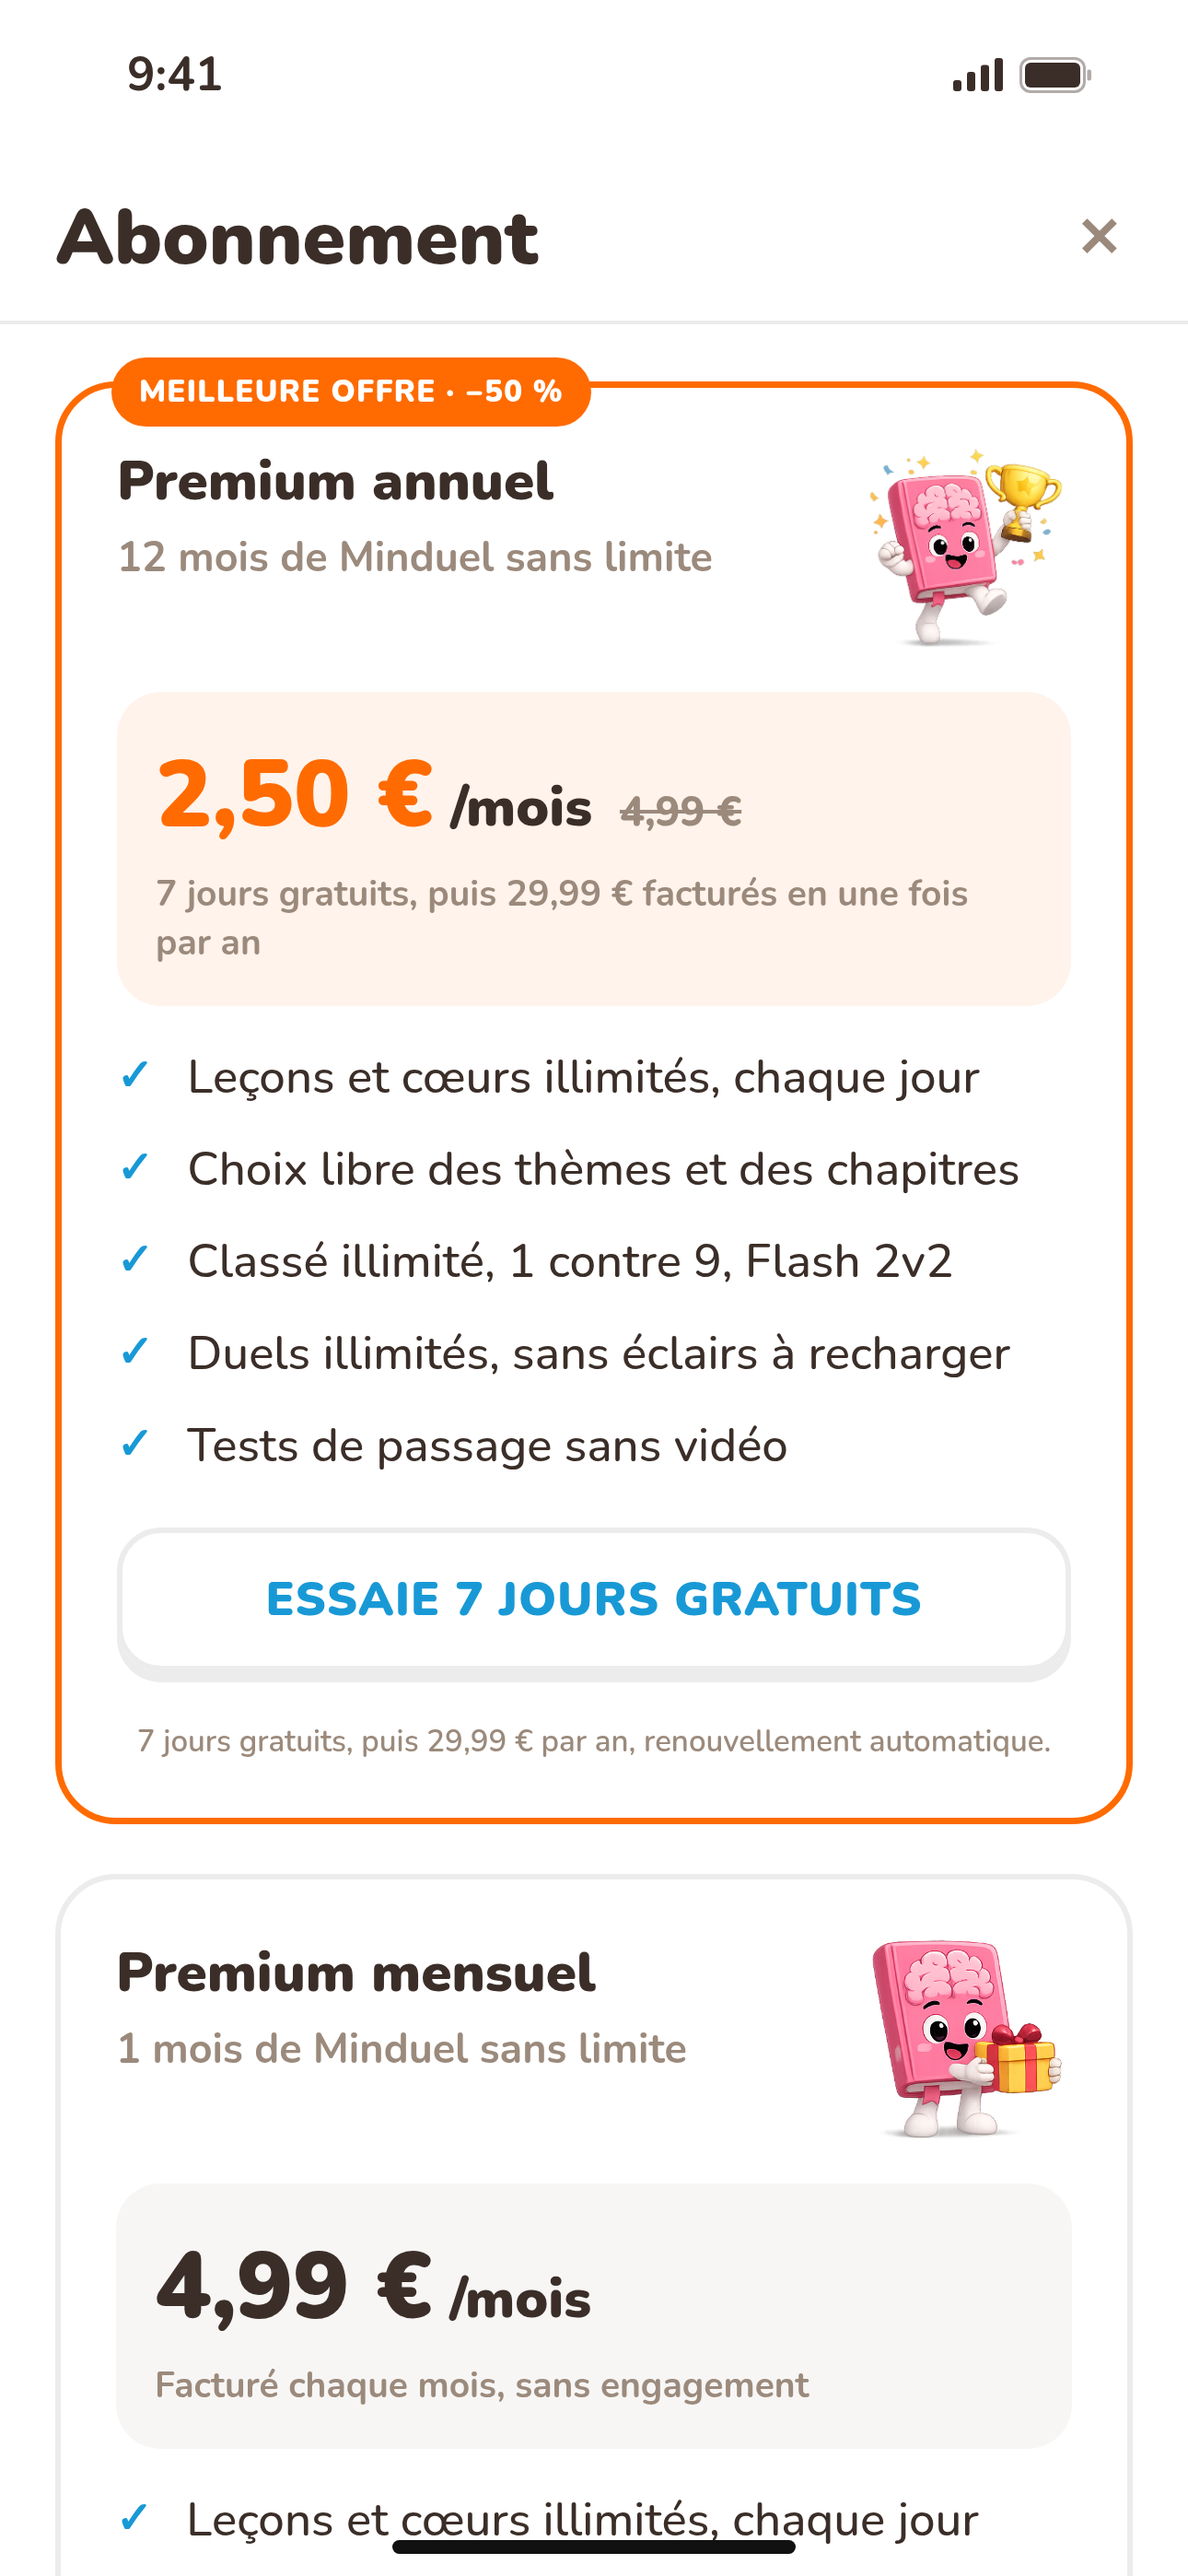
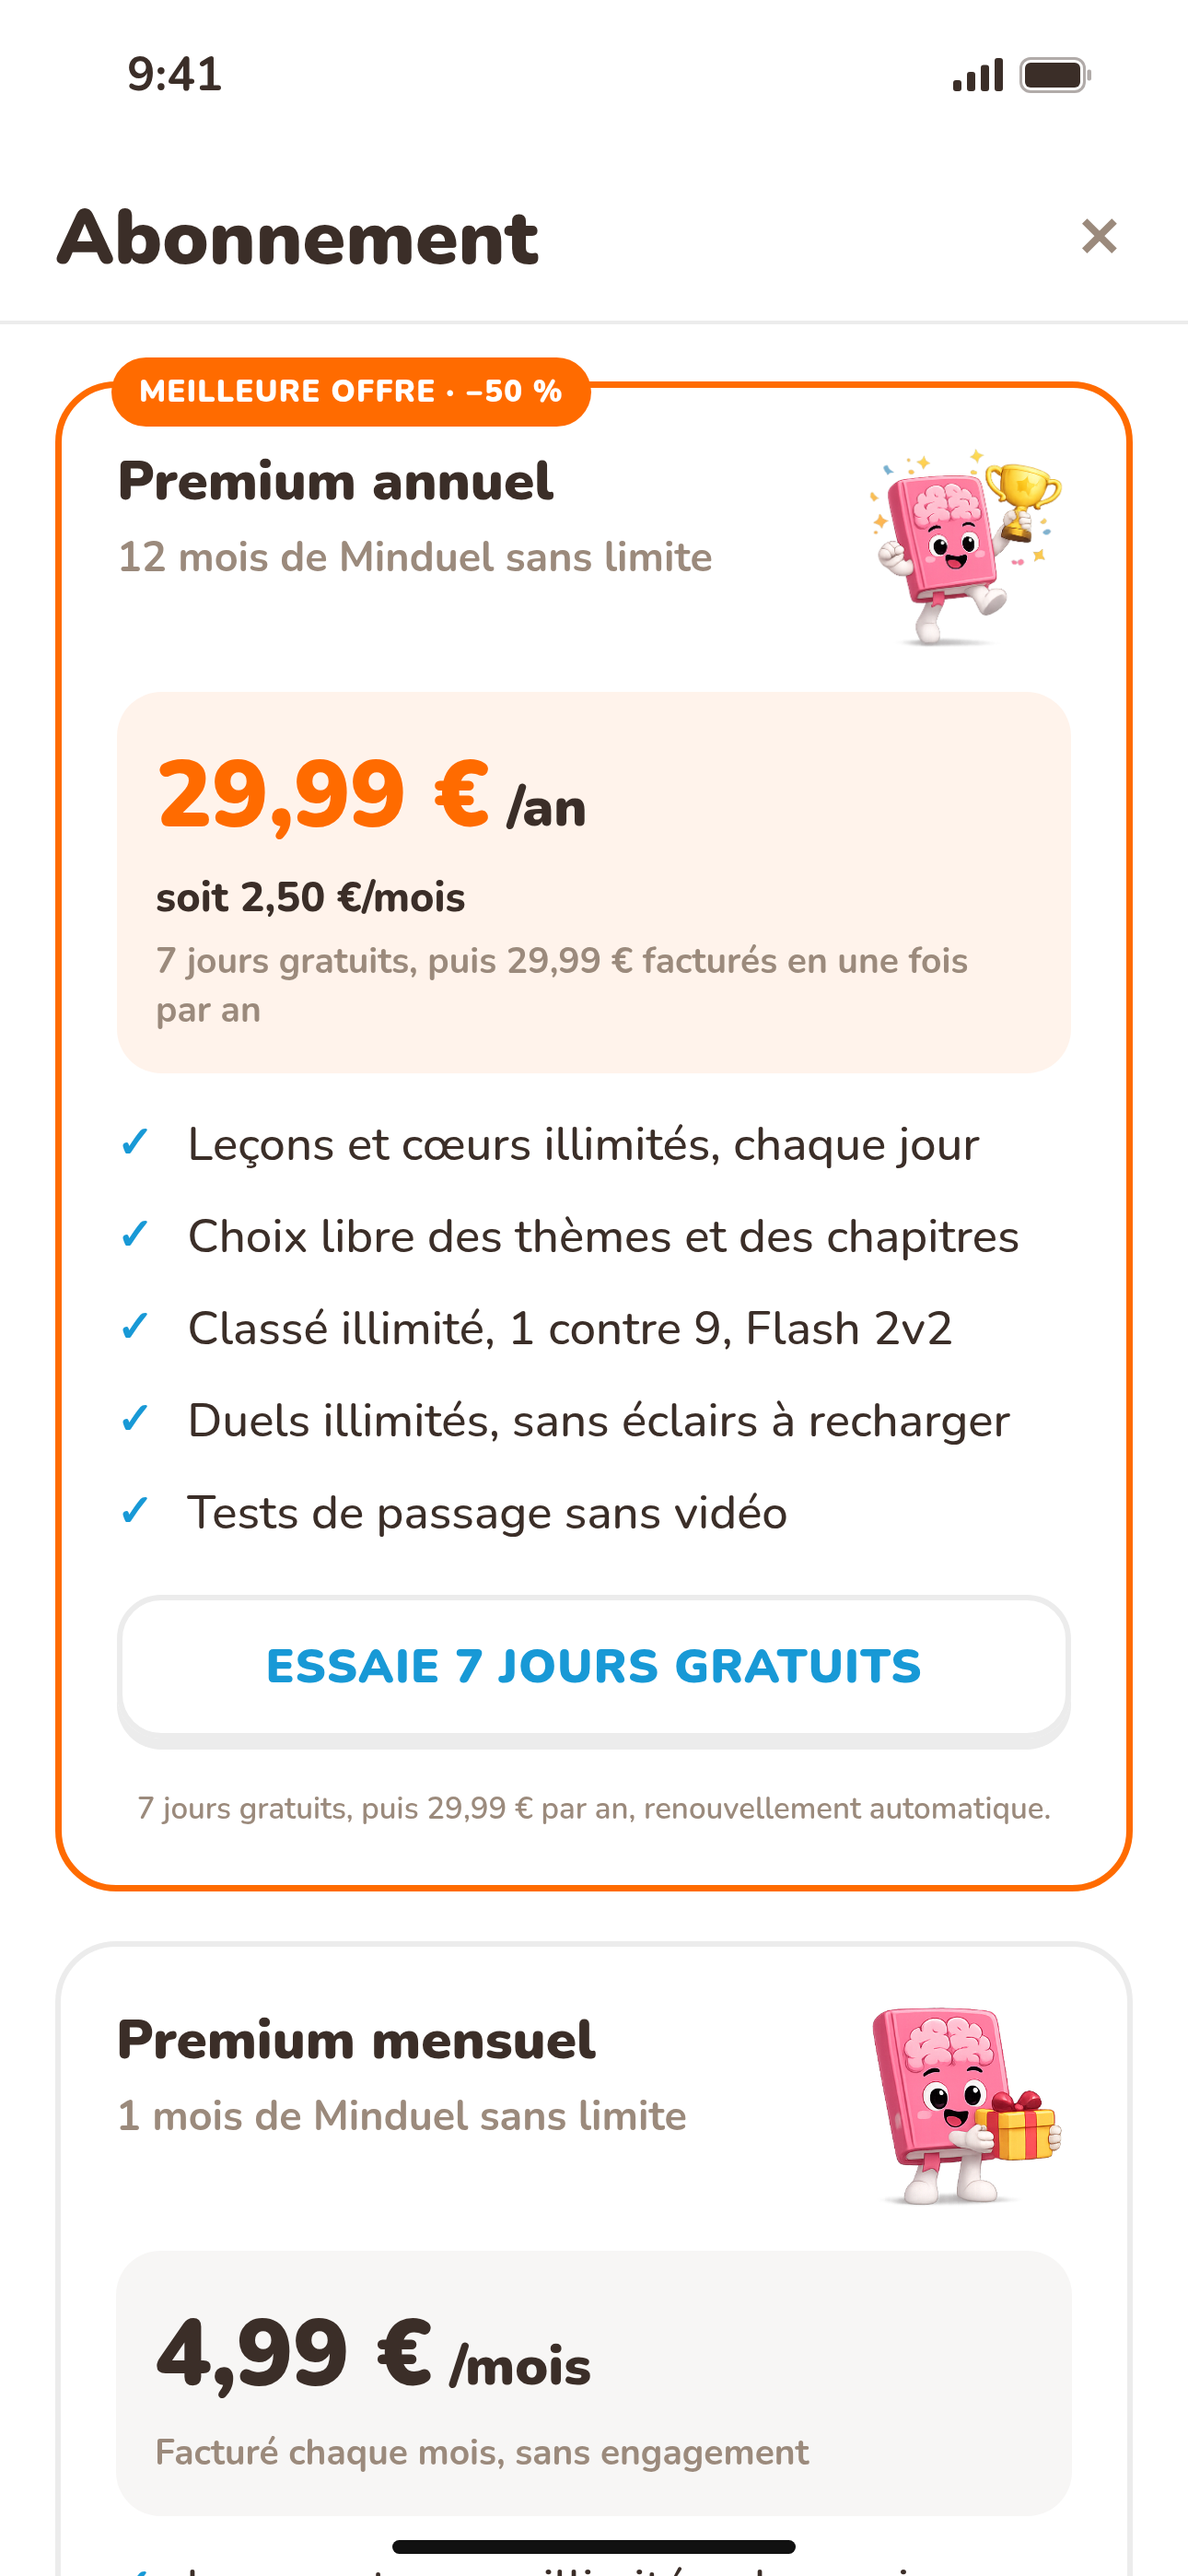
Améliorations de l'interface, visite guidée et mise à jour du paywall

diff --git a/ios/Cortex/Views/Premium/PaywallView.swift b/ios/Cortex/Views/Premium/PaywallView.swift
@@ -188,13 +188,13 @@ struct PaywallView: View {
         let trial = store.freeTrial(for: package)
         let isCurrent = store.isPremium && store.activeProductId == package.storeProduct.productIdentifier
         let price = package.storeProduct.localizedPriceString
-        let perMonth = isAnnual ? (package.storeProduct.localizedPricePerMonth ?? price) : price
+        let perMonthEquivalent = isAnnual ? package.storeProduct.localizedPricePerMonth.map { "soit \($0)/mois" } : nil
         let billing = isAnnual ? "\(price) facturés en une fois par an" : "facturé chaque mois, sans engagement"
         let priceNote: String
         if let trial {
             priceNote = "\(Self.durationText(trial.subscriptionPeriod)) gratuits, puis \(billing)"
         } else {
-            priceNote = isAnnual ? "Soit \(billing)" : "Facturé chaque mois, sans engagement"
+            priceNote = isAnnual ? "\(price) facturés en une fois par an" : "Facturé chaque mois, sans engagement"
         }
         let subtitle = isAnnual ? "12 mois de Minduel sans limite" : "1 mois de Minduel sans limite"
         let title: String
@@ -208,7 +208,7 @@ struct PaywallView: View {
         return PlanCard(
             title: isAnnual ? "Premium annuel" : "Premium mensuel",
             subtitle: subtitle,
-            price: PlanPrice(amount: perMonth, unit: "/mois", note: priceNote, strikethrough: isAnnual ? monthlyPriceText : nil),
+            price: PlanPrice(amount: price, unit: isAnnual ? "/an" : "/mois", note: priceNote, equivalent: perMonthEquivalent),
             perks: Self.premiumPerks,
             image: isAnnual ? "MascotTrophy" : "MascotGift",
             highlight: isAnnual ? Theme.primary : nil,
@@ -229,7 +229,7 @@ struct PaywallView: View {
         PlanCard(
             title: "Gratuit",
             subtitle: "Pour découvrir Minduel à ton rythme",
-            price: PlanPrice(amount: "0 €", unit: "", note: "Pour toujours", strikethrough: nil),
+            price: PlanPrice(amount: "0 €", unit: "", note: "Pour toujours", equivalent: nil),
             perks: Self.freePerks,
             image: "book_mascot_sitting",
             highlight: nil,
@@ -239,12 +239,6 @@ struct PaywallView: View {
             isButtonEnabled: false,
             isBusy: false
         ) {}
-    }
-
-    /// Monthly price, struck through on the annual card to show the saving.
-    private var monthlyPriceText: String? {
-        guard savingsPercent != nil else { return nil }
-        return store.monthlyPackage?.storeProduct.localizedPriceString
     }
 
     private var annualBadgeText: String {
@@ -332,12 +326,13 @@ struct PaywallView: View {
 
 /// One subscription formula, Duolingo-style: title, one line, blue checks,
 /// an illustration on the right and its own outlined button.
-/// Price block of a plan card: the big per-month figure and its small print.
+/// Price block of a plan card: the billed amount in big (App Store rule 3.1.2),
+/// an optional per-month equivalent and the billing small print.
 private struct PlanPrice {
     let amount: String
     let unit: String
     let note: String
-    let strikethrough: String?
+    let equivalent: String?
 }
 
 private struct PlanCard: View {
@@ -440,16 +435,14 @@ private struct PlanCard: View {
                         .font(.system(.title3, design: .rounded, weight: .heavy))
                         .foregroundStyle(Theme.ink)
                 }
-                if let strike = price.strikethrough {
-                    Text(strike)
-                        .font(.system(.subheadline, design: .rounded, weight: .bold))
-                        .foregroundStyle(Theme.inkMuted)
-                        .strikethrough(true, color: Theme.inkMuted)
-                        .padding(.leading, 4)
-                }
             }
             .lineLimit(1)
             .minimumScaleFactor(0.7)
+            if let equivalent = price.equivalent {
+                Text(equivalent)
+                    .font(.system(.subheadline, design: .rounded, weight: .bold))
+                    .foregroundStyle(Theme.ink)
+            }
             Text(price.note)
                 .font(.system(.footnote, design: .rounded, weight: .semibold))
                 .foregroundStyle(Theme.inkMuted)
